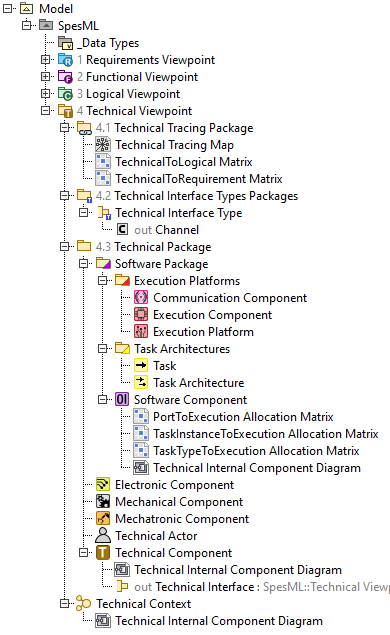
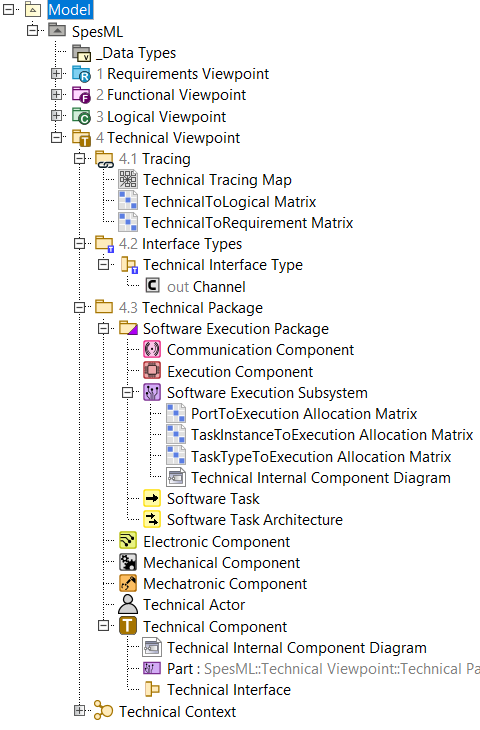
Updated tvp plugin docu after several name changes, etc.

Changed region(s): [[0.0, 0.0, 1.0, 1.0]]

diff --git a/3_Plugin/7_technical_viewpoint.md b/3_Plugin/7_technical_viewpoint.md
@@ -13,41 +13,41 @@ The Technical Viewpoint is the last step on the way to platform-specific models.
 For a better understanding of the concept of the Technical Viewpoint, please have a look at the respective [theoretical concept documentation](/concepts/modeling_framework/technical_viewpoint.html). In the following, we will explain the realization/implementation of the Technical Viewpoint within our SpesML plugin.
 
 ## Method
-The Technical Viewpoint models technical architectures. Technical architectures can be composed of various component types to represent the technical specifications of a system (see the concept in [Figure 1](#figureConcept)). Logical components of the [Logical Viewpoint](/plugin/logical_viewpoint.html) can then be mapped onto these technical components. A technical architecture can not only represent mechanical, electronic, or mechatronic elements (or any generic technical element) but also a software subsystem. A software subsystem is a model of the pure software part of the system including its execution elements. It contains a task architecture with tasks onto which the software-relevant logical components of the [Logical Viewpoint](/plugin/logical_viewpoint.html) are mapped. Furthermore, it contains an execution platform consisting of execution units like ECUs and communication elements like buses. An allocation of tasks to execution units realizes the deployment.
+The Technical Viewpoint models technical architectures. Technical architectures can be composed of various component types to represent the technical specifications of a system (see the concept in [Figure 1](#figureConcept)). Logical components of the [Logical Viewpoint](/plugin/logical_viewpoint.html) can then be mapped onto these technical components. A technical architecture can not only represent mechanical, electronic, or mechatronic elements (or any generic technical element) but also a software execution subsystem. A software execution subsystem is a model of the pure software part of the system including its execution elements. It contains a task architecture with tasks onto which the software-relevant logical components of the [Logical Viewpoint](/plugin/logical_viewpoint.html) are mapped. Furthermore, it contains an execution platform consisting of execution units like ECUs and communication elements like buses. An allocation of tasks to execution units realizes the deployment.
 
 <a name="figureConcept"></a>
 ![Technical Architecture Concept](/images/technical_viewpoint/TVP_Element_Overview.png){:class="img-responsive" style="display:block; margin-left:auto; margin-right:auto"}
 <div align="center"><b>Figure 1: </b><em>The concept of the implemented Technical Viewpoint.</em></div>
 
-Regarding the development process, one step is to build the technical part of the system with all available components of the Technical Viewpoint (as far as needed). This should include at least one software subsystem. To model such a software subsystem with all its tasks and execution units is another step. Since the logical architecture should be mapped next with the technical architecture, we already recommended building the logical and now the technical architecture in a way that a 1:1 mapping is possible between logical and technical components. In addition, it simplifies the process when already in the Logical Viewpoint the pure software-related logical components are separated from the other logical components. Then, it is easy to map them directly to a technical component representing the software subsystem and internally to the defined (software) tasks. However, we do not force a 1:1 mapping and it is also very usual that some technical components exist that do not have a match within the logical architecture, because they were not needed for a platform-independent model but still contribute to the technical representation of an actual platform. After the mapping of logical to technical components (including the tasks), the final deployment needs to be done by mapping the tasks to the added execution units. It should be said that the development is not a strict step-by-step process, but usually building the technical architecture with components and elements of the software subsystem alternates or is in parallel with creating the matching between Logical and Technical Viewpoint and within the Technical Viewpoint regarding the deployment.
+Regarding the development process, one step is to build the technical part of the system with all available components of the Technical Viewpoint (as far as needed). This should include at least one software execution subsystem. To model such a software execution subsystem with all its tasks and execution units is another step. Since the logical architecture should be mapped next with the technical architecture, we already recommended building the logical and now the technical architecture in a way that a 1:1 mapping is possible between logical and technical components. In addition, it simplifies the process when already in the Logical Viewpoint the pure software-related logical components are separated from the other logical components. Then, it is easy to map them directly to a technical component representing the software execution subsystem and internally to the defined (software) tasks. However, we do not force a 1:1 mapping and it is also very usual that some technical components exist that do not have a match within the logical architecture, because they were not needed for a platform-independent model, e.g., in the Logical Viewpoint, but still contribute to the technical representation of an actual platform. After the mapping of logical to technical components (including the tasks), the final deployment needs to be done by mapping the tasks to the added execution units. It should be said that the development is not a strict step-by-step process, but is usually done by building the technical architecture with components and elements of the software execution subsystem in parallel with creating the matching between Logical and Technical Viewpoint and within the Technical Viewpoint regarding the deployment.
 
-We recommend that the software subsystem is modeled on a separate (lower) granularity level ([theoretical concept](/concepts/modeling_framework/technical_viewpoint.html)). How to create a new granularity level is described [here](/plugin/general_concepts/granularity_transitions.html). However, we also allow in the tool that the internal software subsystem with its task architecture(s) and execution platform(s) can be modeled on the same level (just hierarchical), i.e., in the same MagicDraw project directly inside the [Software Component](#software-component) representing the software subsystem (see next section).
+We recommend that the software execution subsystem is modeled on a separate (lower) granularity level (see [theoretical concept](/concepts/modeling_framework/technical_viewpoint.html)). How to create a new granularity level is described [here](/plugin/general_concepts/granularity_transitions.html). However, we also allow in the tool plugin that the internal software execution subsystem with its task and execution elements can be modeled on the same level (just hierarchical), i.e., in the same MagicDraw project directly inside the [Software Execution Subsystem](#software-execution-subsystem).
 
 ## Structure
-TODO: needs to be updated after same naming changes, etc.
-
-The SpesML plugin has a separate folder for the Technical Viewpoint (see [Figure 2](#figureElements)). Within this folder, it is possible to create folders for technical components ([Technical Package](#technical-package)), for technical interfaces types ([Technical Interface Types Package](#technical-interface-types-package)), and for technical tracing ([Technical Tracing Package](#technical-tracing-package)). Inside the Technical Tracing Package, all diagrams regarding tracing can be created: [Technical Tracing Map](#technical-tracing-map), [TechnicalToLogical Matrix](#technicaltological-matrix), and [TechnicalToRequirement Matrix](#technicaltorequirement-matrix). Inside the Technical Interface Types Package, all possible interface types can be created that are usable for the interfaces between technical elements ([Technical Interface](#technical-interface)), and further Technical Interface Types Packages for a better organization. 
+The SpesML plugin has a separate folder for the Technical Viewpoint (see [Figure 2](#figureElements)). Within this folder, it is possible to create folders for technical components ([Technical Package](#technical-package)), for technical interfaces types ([Technical Interface Types Package](#technical-interface-types-package)), and for technical tracing ([Technical Tracing Package](#technical-tracing-package)). Inside the Technical Tracing Package, all diagrams regarding tracing can be created: [Technical Tracing Map](#technical-tracing-map), [TechnicalToLogical Matrix](#technicaltological-matrix), and [TechnicalToRequirement Matrix](#technicaltorequirement-matrix). Inside the Technical Interface Types Package, all possible interface types can be created that are usable for the interfaces between technical elements (see [Technical Interface](#technical-interface)), and further Technical Interface Types Packages for a better organization. 
 
 Inside the Technical Package, other Technical Packages can be created as well for better organization, but more important are the possibilities of the component creations. The generic [Technical Component](#technical-component) can be used for everything. If something more specific is needed, then the [Mechanical](#mechanical-component), [Electronic](#electronic-component) or [Mechatronic Components](#mechatronic-component) are available. In addition, the modeler can define a [Technical Context](#technical-context) inside a Technical Package. The Technical Context behaves like a Technical Component, but can already be placed in the Technical Viewpoint folder to create a starting point for the system and a possibility to represent the connected external systems and [Technical Actors](#technical-actor), which can be created in a Technical Package as well. To indicate that a component is representing an external (sub-)system, the corresponding "External" part property can be set to "Yes". 
 
-Now, only the software subsystem is missing. For better guidance, it is only possible to create first a [Software Package](#Software-Package) inside a Technical Package. Within a Software Package, the modeler can then create [Software Components](#software-component), which represent software subsystems. Task architectures and execution platforms are needed to define a software subsystem. Therefore, a Software Package can also contain [Task Architecture Packages](#task-architecture-package) and [Execution Platform Packages](#execution-platform-package) (besides more Software Packages). Inside the Task Architecture Packages, [Task Architectures](#task-architecture) and [Tasks](#task) can be created. Inside the Execution Platform Packages, [Execution Platforms](#execution-platform), [Execution Components](#execution-component) and [Communication Components](#communication-components) can be created.
+Now, only the software execution subsystem is missing. For better guidance, it is only possible to create first a [Software Execution Package](#software-execution-package) inside a Technical Package. Within a Software Execution Package, the modeler can then create [Software Execution Subsystems](#software-execution-subsystem), which are the containers for everything of a software execution subsystem. A Software Execution Package can also contain [Software Task Architectures](#software-task-architecture) and [Software Tasks](#software-task), as well as [Execution Components](#execution-component) and [Communication Components](#communication-components). A execution platform element does not exist explicitly since the Software Execution Subsystem element can directly contain Execution Components and Communication Components in its [Technical Internal Component Diagram](#technical-internal-component-diagram) to represent the topology of the execution platform.
 
 <a name="figureElements"></a>
 ![Technical Elements Of The Plugin](/images/technical_viewpoint/TVP_elements_in_plugin.png){:class="img-responsive" style="display:block; margin-left:auto; margin-right:auto"}
 <div align="center"><b>Figure 2: </b><em>An example collection of all technical elements implemented inside the SpesML plugin.</em></div>
 
-Every component (and the Technical Context) can have its own [Technical Internal Component Diagram](#technical-internal-component-diagram). Depending on the owner of the diagram, only some internal components can be placed in the diagram:
-- The Technical Component as well as the Technical Context can contain Technical, Mechanical, Electronic, Mechatronic, and Software Components. 
+Every component (and the Technical Context) can have its own [Technical Internal Component Diagram](#technical-internal-component-diagram) where its containing elements are represented. Depending on the owner of the diagram, only some internal components can be placed in the diagram:
+- The Technical Component as well as the Technical Context can contain Technical, Mechanical, Electronic, Mechatronic, and Software Execution Subsystems. 
 - Mechatronic Components can contain Mechanical and Electronic Components. 
 - Mechanical and Electronic Components can only contain internal components of their type. 
-- Software Components can contain Task Architectures and Execution Platforms. 
+- Software Execution Subsystems can contain Task Architectures, Execution Components and Communication Components. 
 - Task Architectures can contain Tasks. 
-- Execution Platforms can contain Execution Component and Communication Component. 
 
 No behavior is modeled inside the Technical Viewpoint, which is why the composition of the components inside the (nested) diagrams is the main part of the Technical Viewpoint, together with the component mapping and the allocation of Tasks to Execution Components for the deployment.
 
-To connect this composition of technical elements, it is possible to place interfaces (proxy ports) on every element and connect them with a Connector if both ports have the same interface type (defined in a Technical Interface Types Package). All elements can be connected via a generic [Technical Interface](#technical-interface), which is defined by its Technical Interface Type. Technical Interface Types can have [Channels](#channel), which are inherited from the [Universal Interface Model](/concepts/modeling_framework/uim.html). Therefore it is possible, that the model communication flows between technical elements. An exception is the Task Architecture because it does not make sense to connect Tasks in Task Architectures with the physical elements outside of Task Architectures. However, the Tasks themselves inside Task Architecture can be connected among each other again with Technical Interfaces.
+To connect this composition of technical elements, it is possible to place interfaces (proxy ports) on every element and connect them with a Connector if both ports have the same interface type (defined in a Technical Interface Types Package). All elements can be connected via a generic [Technical Interface](#technical-interface), which is defined by its Technical Interface Type. Technical Interface Types can have [Channels](#channel), which are inherited from the [Universal Interface Model](/concepts/modeling_framework/uim.html). Therefore it is possible to represent/model communication flows between technical elements (but without actual behavior!). An exception is the Task Architecture because it does not make sense to connect Tasks in Task Architectures with the physical elements outside of Task Architectures, which is why Task Architectures cannot be connected in any way with other elements. However, the Tasks themselves inside Task Architecture can be connected among each other again with Technical Interfaces.
 
+To match/trace logical elements to technical elements or actually the other way around, you can create and fill a [TechnicalToLogical Matrix](#technicaltological-matrix) inside the [Technical Tracing Package](#technical-tracing-package). The same goes for technical elements to requirements with a [TechnicalToRequirement Matrix](#technicaltorequirement-matrix).
+
+Regarding the deployment, it is possible to create allocation matrices for a [Software Execution Subsystems](#software-execution-subsystem) (similar to a [Technical Internal Component Diagram](#technical-internal-component-diagram)). You can create a [TaskInstanceToExecution Allocation Matrix](#taskinstancetoexecution-allocation-matrix) if you want to allocate [Software Task](#software-task) instances to [Execution Component](#execution-component) instances, i.e., modeling the deployment of tasks to execution components. The same can be done with a [TaskTypeToExecution Allocation Matrix](#tasktypetoexecution-allocation-matrix), but now you do not do it with instances but defined types of these elements. To allocate then task ports to execution component ports, you can use a [PortToExecution Allocation Matrix](#porttoexecution-allocation-matrix).
 
 
 ## How to model
@@ -67,12 +67,11 @@ This element is a *UML/SysML Package* with a dedicated stereotype that allows de
 This element is a *UML/SysML Package* with a dedicated stereotype that allows defining an adequate SpesML model structure and guides users by restricting what elements and diagrams can be created below this package for the [Technical Viewpoint](/plugin/technical_viewpoint.html). This package usually contains only interface types that can be used for [Technical Interfaces](#technical-interface).
 
 ### ![Technical Package](/images/technical_viewpoint/TechnicalPackage.png){:class="img-responsive"}Technical Package
-This element is a *UML/SysML Package* with a dedicated stereotype that allows defining an adequate SpesML model structure and guides users by restricting what elements and diagrams can be created below this package for the [Technical Viewpoint](/plugin/technical_viewpoint.html). This package usually contains only standard technical components like [Technical](#technical-component), [Mechanical](#mechanical-component), [Electronic](#electronic-component) and [Mechatronic Components](#mechatronic-component), and context-related elements like [Technical Contexts](#technical-context) and [Technical Actors](#technical-actor). In addition, it can also contain [Software Packages](#Software-Package), which are the entry point for software subsystems.
+This element is a *UML/SysML Package* with a dedicated stereotype that allows defining an adequate SpesML model structure and guides users by restricting what elements and diagrams can be created below this package for the [Technical Viewpoint](/plugin/technical_viewpoint.html). This package usually contains only standard technical components like [Technical](#technical-component), [Mechanical](#mechanical-component), [Electronic](#electronic-component) and [Mechatronic Components](#mechatronic-component), and context-related elements like [Technical Contexts](#technical-context) and [Technical Actors](#technical-actor). In addition, it can also contain [Software Execution Subsystems](#software-execution-subsystem), which are the entry point for software execution subsystem elements/models.
 
-### ![Software Package](/images/technical_viewpoint/SoftwarePackage.png){:class="img-responsive"}Software Execution Package
-TODO: check different naming
+### ![Software Execution Package](/images/technical_viewpoint/SoftwarePackage.png){:class="img-responsive"}Software Execution Package
+This element is a *UML/SysML Package* with a dedicated stereotype that allows defining an adequate SpesML model structure and guides users by restricting what elements and diagrams can be created below this package for the [Technical Viewpoint](/plugin/technical_viewpoint.html). This package contains only elements regarding the software execution subsystem. It includes [Software Execution Subsystems](#software-execution-subsystem), [Software Task Architectures](#software-task-architecture), [Software Tasks](#software-task), [Execution Components](#execution-component) and [Communication Components](#communication-components).
 
-This element is a *UML/SysML Package* with a dedicated stereotype that allows defining an adequate SpesML model structure and guides users by restricting what elements and diagrams can be created below this package for the [Technical Viewpoint](/plugin/technical_viewpoint.html). This package usually contains only elements regarding the software subsystem. It includes [Software Components](#software-component), which represent software subsystems, and packages for further software subsystem related elements like [Task Architecture Packages](#task-architecture-package) and [Execution Platform Packages](#execution-platform-package).
 
 
 ### ![Technical Context](/images/technical_viewpoint/TechnicalContext.png){:class="img-responsive"}Technical Context
@@ -87,19 +86,13 @@ In the case of the Technical Actor, it prevents the creation of any sub-element 
 The Technical Actor just indicates an actor that has a connection to the system under development without any further modeling of this actor. Therefore, the Technical Actor makes in most cases only sense to be placed in the [Technical Context](#technical-context). 
 To model the connections with the system under development, it is possible to add [Technical Interfaces](#technical-interface) to the Technical Actor and connect them with Technical Interfaces of other components, usually, the one representing the system under development.
 
+
+
 ### ![Technical Component](/images/technical_viewpoint/TechnicalComponent.png){:class="img-responsive"}Technical Component
 This element is based on a *SysML Block* with a dedicated stereotype that allows defining where the element can be placed and other specifications. In addition, it restricts that only certain sub-elements can be created below it. 
 A Technical Component is a generic component and can represent everything. It can be used as a placeholder and if it is not needed to specify the modeled element further with it or if it is a container for components of different disciplines.
-A Technical Component can be further specified by adding a [Technical Internal Component Diagram](#technical-internal-component-diagram) to it. With such an owner it is possible to place [Technical](#technical-component), [Mechanical](#mechanical-component), [Electronic](#electronic-component), [Mechatronic](#mechatronic-component) and [Software Components](#software-component) in this diagram. 
+A Technical Component can be further specified by adding a [Technical Internal Component Diagram](#technical-internal-component-diagram) to it. With such an owner it is possible to place [Technical](#technical-component), [Mechanical](#mechanical-component), [Electronic](#electronic-component), [Mechatronic](#mechatronic-component) and [Software Execution Subsystems](#software-execution-subsystem) in this diagram. 
 A Technical Component can provide a syntactic interface via [Technical Interfaces](#technical-interface), which can be used to connect this component to other components (to model just the composition or to model actual information flow if the used [Technical Interface Type](#technical-interface-type) contains [Channels](#channel)).
-
-### ![Software Component](/images/technical_viewpoint/SoftwareComponent.png){:class="img-responsive"}Software Component
-TODO: update needed (remove this and maybe add some information of the this text to the new Software Execution Subsystem text
-
-This element is based on a *SysML Block* with a dedicated stereotype that allows defining where the element can be placed and other specifications. In addition, it restricts that only certain sub-elements can be created below it.
-A Software Component is a container representing the software subsystem (see [Technical Viewpoint concept](/concepts/modeling_framework/technical_viewpoint.html)). It is used by the software engineering discipline to model the software part of the system (and its execution environment). 
-A Software Component can be further specified by adding a [Technical Internal Component Diagram](#technical-internal-component-diagram) to it. With such an owner it is possible to place [Task Architectures](#task-architecture) and [Execution Platforms](#execution-platform) in this diagram. 
-A Software Component can provide a syntactic interface via [Technical Interfaces](#technical-interface), which can be used to connect this component to other components (to model just the composition or to model actual information flow if the used [Technical Interface Type](#technical-interface-type) contains [Channels](#channel)).
 
 ### ![Mechanical Component](/images/technical_viewpoint/MechanicalComponent.png){:class="img-responsive"}Mechanical Component
 This element is based on a *SysML Block* with a dedicated stereotype that allows defining where the element can be placed and other specifications. In addition, it restricts that only certain sub-elements can be created below it.
@@ -119,37 +112,37 @@ An Electronic Component is a specific component of the electrical engineering di
 An Electronic Component can be further specified by adding a [Technical Internal Component Diagram](#technical-internal-component-diagram) to it. With such an owner it is possible to place [Electronic Components](#electronic-component) in this diagram. 
 An Electronic Component can provide a syntactic interface via [Technical Interfaces](#technical-interface), which can be used to connect this component to other components (to model just the composition or to model actual information flow if the used [Technical Interface Type](#technical-interface-type) contains [Channels](#channel)).
 
-### Software Execution Subsystem
-TODO: update needed
-
+### ![Software Execution Subsystem](/images/technical_viewpoint/SoftwareExecutionSubsystem.png){:class="img-responsive"}Software Execution Subsystem
 This element is based on a *SysML Block* with a dedicated stereotype that allows defining where the element can be placed and other specifications. In addition, it restricts that only certain sub-elements can be created below it.
-An Execution Platform is a container element for [Execution](#execution-component) and [Communication Components](#communication-components) to represent the execution environment of a software subsystem (represented by [Software Components](#software-component)). 
-An Execution Platform can be further specified by adding a [Technical Internal Component Diagram](#technical-internal-component-diagram) to it. With such an owner it is possible to place [Execution](#execution-component) and [Communication Components](#communication-components) in this diagram. 
-An Execution Platform can provide a syntactic interface via [Technical Interfaces](#technical-interface), which can be used to connect this component to other components, in this case internal [Execution](#execution-component) and [Communication Components](#communication-components), or to its container, the [Software Component](#software-component) (to model just the composition or to model actual information flow if the used [Technical Interface Type](#technical-interface-type) contains [Channels](#channel)).
+A Software Execution Subsystem is a container representing the software execution subsystem (see [Technical Viewpoint concept](/concepts/modeling_framework/technical_viewpoint.html)). It is used by the software engineering discipline to model the software part of the system (and its execution environment). 
+A Software Execution Subsystem can be further specified by adding a [Technical Internal Component Diagram](#technical-internal-component-diagram) to it. With such an owner it is possible to place mainly [Execution](#execution-component) and [Communication Components](#communication-components) in this diagram, but also [Software Task Architectures](#software-task-architecture) if wanted. 
+In this implementation, we have simplified the structure of a Software Execution Subsystem and directly allow the placing of [Execution](#execution-component) and [Communication Components](#communication-components) in its diagram without adding an additional container for them in form of a execution platform. Therefore, the Software Execution Subsystem directly represent the execution environment (its topology).
+A Software Execution Subsystem can provide a syntactic interface via [Technical Interfaces](#technical-interface), which can be used to connect this component to other components (to model just the composition or to model actual information flow if the used [Technical Interface Type](#technical-interface-type) contains [Channels](#channel)).
 
 ### ![Execution Component](/images/technical_viewpoint/ExecutionComponent.png){:class="img-responsive"}Execution Component
 This element is based on a *SysML Block* with a dedicated stereotype that allows defining where the element can be placed and other specifications. In addition, it restricts that only certain sub-elements can be created below it.
-An Execution Component is a specific (atomic) component of the software subsystem that represents an execution unit, like an ECU, on which [Tasks](#task) can be deployed and executed.
-An Execution Component cannot be further specified by adding a diagram to it. It is an atomic unit on which [Tasks](#task) can be mapped to realize the (software) deployment.
+An Execution Component is a specific (atomic) component of the software execution subsystem that represents an execution unit, like an ECU, on which [Software Tasks](#software-task) can be deployed and executed.
+An Execution Component cannot be further specified by adding a diagram to it. It is an atomic unit on which [Software Tasks](#software-task) can be mapped to realize the (software) deployment.
 An Execution Component can provide a syntactic interface via [Technical Interfaces](#technical-interface), which can be used to connect this component to other components, in this case other [Execution Components](#execution-component) or [Communication Components](#communication-components) (to model just the composition or to model actual information flow if the used [Technical Interface Type](#technical-interface-type) contains [Channels](#channel)).
 
 ### ![Communication Component](/images/technical_viewpoint/CommunicationComponent.png){:class="img-responsive"}Communication Component
 This element is based on a *SysML Block* with a dedicated stereotype that allows defining where the element can be placed and other specifications. In addition, it restricts that only certain sub-elements can be created below it.
-A Communication Component is a specific (atomic) component of the software subsystem that represents a communication unit, like a CAN bus, connecting [Execution Components](#execution-component). However, it is not needed to have always specifically modeled Communication Components between [Execution Components](#execution-component).
+A Communication Component is a specific (atomic) component of the software execution subsystem that represents a communication unit, like a CAN bus, connecting [Execution Components](#execution-component). However, it is not needed to have always specifically modeled Communication Components between [Execution Components](#execution-component).
 A Communication Component cannot be further specified by adding a diagram to it. It is an atomic unit that can mainly be used to indicate/model communication elements between [Execution Components](#execution-component) (if wanted).
 A Communication Component can provide a syntactic interface via [Technical Interfaces](#technical-interface), which can be used to connect this component to other components, in this case [Execution Components](#execution-component) (to model just the composition or to model actual information flow if the used [Technical Interface Type](#technical-interface-type) contains [Channels](#channel)).
 
-### ![Task Architecture](/images/technical_viewpoint/TaskArchitecture.png){:class="img-responsive"}Task Architecture
+### ![Software Task Architecture](/images/technical_viewpoint/TaskArchitecture.png){:class="img-responsive"}Software Task Architecture
 This element is based on a *SysML Block* with a dedicated stereotype that allows defining where the element can be placed and other specifications. In addition, it restricts that only certain sub-elements can be created below it.
-A Task Architecture is a container element for [Tasks](#task) to represent the software part of a software subsystem (represented by [Software Components](#software-component)).
-A Task Architecture can be further specified by adding a [Technical Internal Component Diagram](#technical-internal-component-diagram) to it. With such an owner it is possible to place [Tasks](#task) in this diagram. 
-A Task Architecture does NOT provide any syntactic interface via e.g., [Technical Interfaces](#technical-interface). It is only used as a virtual container for all the [Tasks](#task) and does not need to have any connection with other (physical) elements.
+A Software Task Architecture is a container element for [Software Tasks](#software-task) to represent the software part of a software execution subsystem (represented by [Software Execution Subsystem](#software-execution-subsystem)).
+A Software Task Architecture can be further specified by adding a [Technical Internal Component Diagram](#technical-internal-component-diagram) to it. With such an owner it is possible to place [Software Tasks](#software-task) in this diagram. 
+A Software Task Architecture does NOT provide any syntactic interface via e.g., [Technical Interfaces](#technical-interface). It is only used as a virtual container for all the [Software Tasks](#software-task) and does not need to have any connection with other (physical) elements.
 
-### ![Task](/images/technical_viewpoint/TaskComponent.png){:class="img-responsive"}Task
+### ![Software Task](/images/technical_viewpoint/TaskComponent.png){:class="img-responsive"}Software Task
 This element is based on a *SysML Block* with a dedicated stereotype that allows defining where the element can be placed and other specifications. In addition, it restricts that only certain sub-elements can be created below it.
-A Task is a specific (atomic) component representing a single software task that was mapped from the [Logical Viewpoint](/plugin/logical_viewpoint.html) and should be executed on an execution unit represented by an [Execution Component](#execution-component).
-A Task cannot be further specified by adding a diagram to it. It is an atomic unit on which software-related Logical Components of the [Logical Viewpoint](/plugin/logical_viewpoint.html) can be mapped, and which itself can then be mapped on [Execution Components](#execution-component) to realize the final (software) deployment with such an allocation.
-A Task can provide a syntactic interface via [Technical Interfaces](#technical-interface), which can be used to connect this component to other components, in this case, other Tasks (to model actual information flow if the used [Technical Interface Type](#technical-interface-type) contains [Channels](#channel)).
+A Software Task is a specific (atomic) component representing a single software task that was mapped from the [Logical Viewpoint](/plugin/logical_viewpoint.html) and should be executed on an execution unit represented by an [Execution Component](#execution-component).
+A Software Task cannot be further specified by adding a diagram to it. It is an atomic unit on which software-related Logical Components of the [Logical Viewpoint](/plugin/logical_viewpoint.html) can be mapped, and which itself can then be mapped on [Execution Components](#execution-component) to realize the final (software) deployment with such an allocation.
+A Software Task can provide a syntactic interface via [Technical Interfaces](#technical-interface), which can be used to connect this component to other components, in this case, other Software Tasks (to model actual information flow if the used [Technical Interface Type](#technical-interface-type) contains [Channels](#channel)).
+
 
 
 ### ![Technical Interface](/images/technical_viewpoint/TechnicalInterface.png){:class="img-responsive"}Technical Interface
@@ -182,10 +175,10 @@ This matrix allows to create relationships between elements of the [Technical Vi
 This diagram is based on a *UML Composite Structure Diagram/SysML Internal Block Diagram* and provides a reduced diagram toolbar related to SpesML for the [Technical Viewpoint](/plugin/technical_viewpoint.html). Note that intentionally any technical components cannot be created using the diagram toolbar. Instead, it is recommended to create these elements by dragging/dropping a technical component into the diagram. Depending on the owner of the diagram, only certain elements are allowed to be placed in this diagram. For example, for a Technical Internal Component Diagram of a Mechanical Component, it is only allowed to place further Mechanical Component, for a Technical Internal Component Diagram of an Execution Platform it is only allowed to place Execution Components and Communication Components, etc. If you drag and drop a wrong element inside a diagram, you will get a warning message that will tell you which elements are allowed for this specific diagram.
 
 ### ![TaskInstanceToExecution Allocation Matrix](/images/diagrams/matrix.png){:class="img-responsive"}TaskInstanceToExecution Allocation Matrix
-This matrix allows to create relationships between [Tasks](#task) in [Task Architectures](#task-architecture) and [Execution Components](#execution-component) in [Execution Platforms](#execution-platform). This creates an allocation between Tasks and Execution Components that represents the deployment of these software tasks on these execution units. All of this happens on the instance level, meaning that every instance/part of a Task and an Execution Component can be allocated separately. To use this matrix, a scope needs to be set (above the matrix diagram). As the description at the bottom of the matrix diagrams indicates, the row scope should be the Task Architecture of the wanted Tasks and the column scope the Execution Platform of the wanted Execution Components.
+This matrix allows to create relationships between [Software Tasks](#software-task) in [Software Task Architectures](#software-task-architecture) and [Execution Components](#execution-component) in [Execution Platforms](#execution-platform). This creates an allocation between Software Tasks and Execution Components that represents the deployment of these software tasks on these execution units. All of this happens on the instance level, meaning that every instance/part of a Software Task and an Execution Component can be allocated separately. To use this matrix, a scope needs to be set (above the matrix diagram). As the description at the bottom of the matrix diagrams indicates, the row scope should be the Task Architecture of the wanted Software Tasks and the column scope the Execution Platform of the wanted Execution Components.
 
 ### ![TaskTypeToExecution Allocation Matrix](/images/diagrams/matrix.png){:class="img-responsive"}TaskTypeToExecution Allocation Matrix
-This matrix allows to create relationships between [Tasks](#task) in [Task Architectures](#task-architecture) and [Execution Components](#execution-component) in [Execution Platforms](#execution-platform). This creates an allocation between Tasks and Execution Components that represents the deployment of these software tasks on these execution units. All of this happens on the type level, meaning that only the defined types/blocks of a Task and an Execution Component can be allocated (instances of them cannot be allocated separately!). To use this matrix, a scope needs to be set (above the matrix diagram). As the description at the bottom of the matrix diagrams indicates, the row scope should be the package in which the wanted Tasks are defined, and the column scope the package in which the wanted Execution Components are defined.
+This matrix allows to create relationships between [Software Tasks](#software-task) in [Software Task Architectures](#software-task-architecture) and [Execution Components](#execution-component) in [Execution Platforms](#execution-platform). This creates an allocation between Software Tasks and Execution Components that represents the deployment of these software tasks on these execution units. All of this happens on the type level, meaning that only the defined types/blocks of a Software Task and an Execution Component can be allocated (instances of them cannot be allocated separately!). To use this matrix, a scope needs to be set (above the matrix diagram). As the description at the bottom of the matrix diagrams indicates, the row scope should be the package in which the wanted Software Tasks are defined, and the column scope the package in which the wanted Execution Components are defined.
 
 ### ![PortToExecution Allocation Matrix](/images/diagrams/matrix.png){:class="img-responsive"}PortToExecution Allocation Matrix
-This matrix allows to create relationships between [Technical Interfaces](#technical-interface) (ports) of [Tasks](#task) in [Task Architectures](#task-architecture) and [Technical Interfaces](#technical-interface) (ports) of [Execution Components](#execution-component) in [Execution Platforms](#execution-platform). This creates an allocation between Tasks ports and Execution Components ports, which supports the deployment of these software tasks on these execution units. To use this matrix, a scope needs to be set (above the matrix diagram). As the description at the bottom of the matrix diagrams indicates, the row scope should be the package in which the wanted Tasks ports are defined, and the column scope is the package in which the wanted Execution Components ports are defined. The port allocation is only needed on the type level because together with a [TaskInstanceToExecution Allocation Matrix](#taskinstancetoexecution-allocation-matrix), it is then always possible which port instances (depending on the task and execution component instance) are meant to be mapped.
+This matrix allows to create relationships between [Technical Interfaces](#technical-interface) (ports) of [Software Tasks](#software-task) in [Software Task Architectures](#software-task-architecture) and [Technical Interfaces](#technical-interface) (ports) of [Execution Components](#execution-component) in [Execution Platforms](#execution-platform). This creates an allocation between Software Tasks ports and Execution Components ports, which supports the deployment of these software tasks on these execution units. To use this matrix, a scope needs to be set (above the matrix diagram). As the description at the bottom of the matrix diagrams indicates, the row scope should be the package in which the wanted Tasks ports are defined, and the column scope is the package in which the wanted Execution Components ports are defined. The port allocation is only needed on the type level because together with a [TaskInstanceToExecution Allocation Matrix](#taskinstancetoexecution-allocation-matrix), it is then always possible which port instances (depending on the task and execution component instance) are meant to be mapped.
